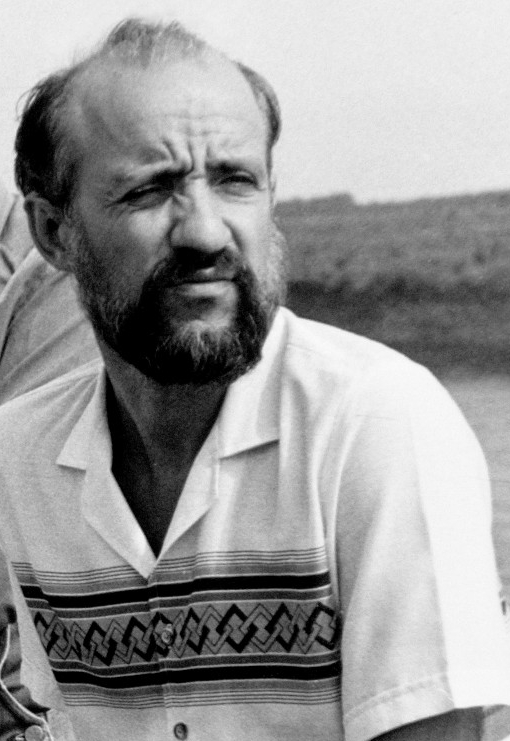
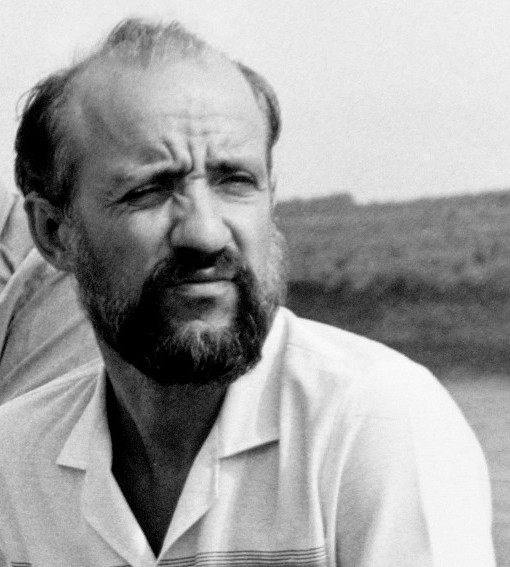
deploy: neurovium/neurovium-site-source@6c9e3f50a08a9d597d62a54774d6499699b8906f

diff --git a/assets/css/style.css b/assets/css/style.css
@@ -1924,13 +1924,6 @@ a.tag:hover { color: var(--fork); border-color: var(--fork-soft); }
   width: 100%; height: 100%; object-fit: cover; display: block;
   filter: grayscale(0.18) contrast(1.02);
 }
-/* Portraits framed tight at the top — bias the crop upward so the head isn't cut off. */
-.decoded__portrait-wrap img[src*="Darwin"],
-.decoded__portrait-wrap img[src*="Winfree"],
-.decoded__portrait-wrap img[src*="Ashby"],
-.decoded__thumb-wrap img[src*="Darwin"],
-.decoded__thumb-wrap img[src*="Winfree"],
-.decoded__thumb-wrap img[src*="Ashby"] { object-position: center top; }
 .decoded__hero-thumb figcaption { display: flex; flex-direction: column; gap: 2px; }
 .decoded__thumb-name {
   font-family: var(--serif); font-weight: 400;